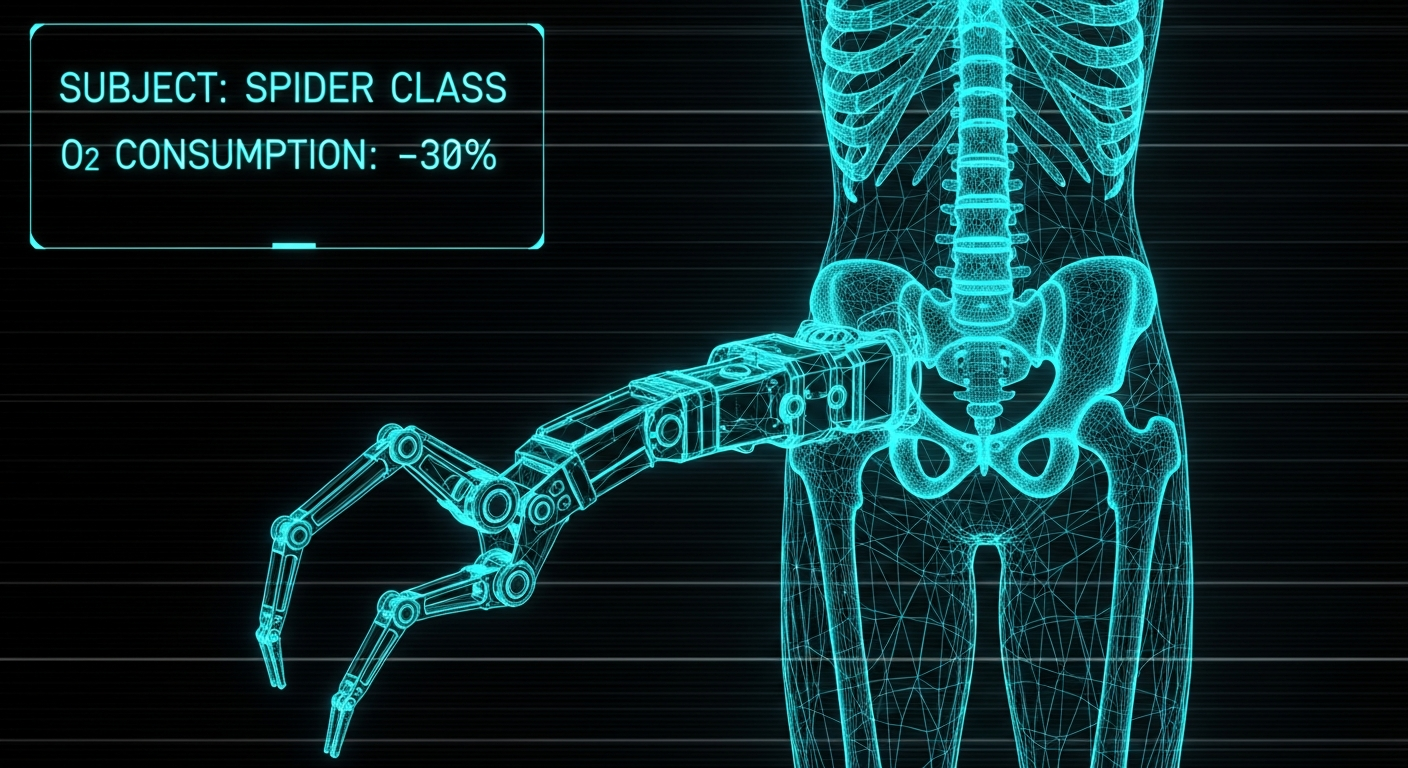
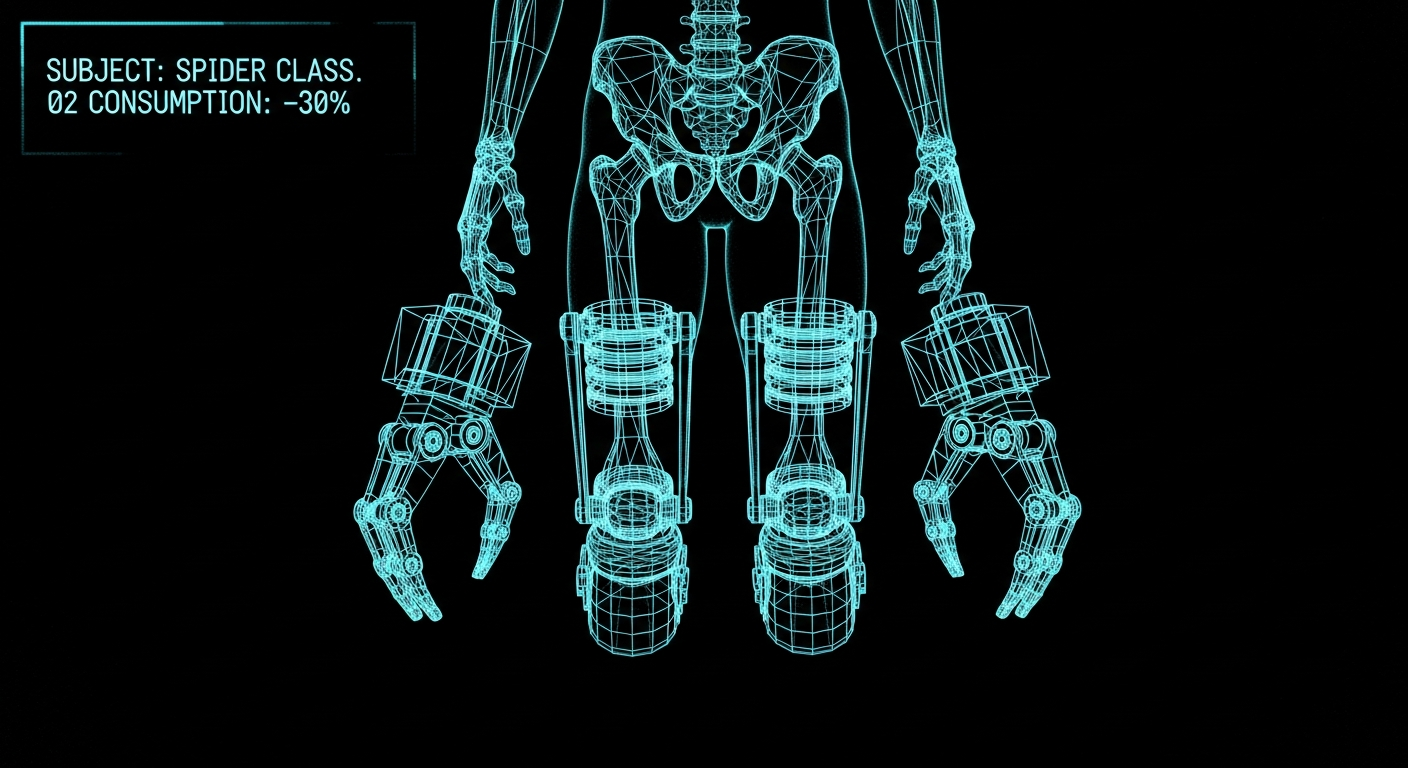
fixing spiders visual

diff --git a/content/lore/spiders.md b/content/lore/spiders.md
@@ -25,5 +25,5 @@ Spiders are the technicians, engineers, and pilots of the Belt. They live in the
 <!--
 TARGET: spiders-medical-scan
 NEVER display the prompt text to the reader.
-Image Prompt: Medical scan, cyan monochrome, wireframe schematic of a human skeleton with legs removed and mechanical grippers attached to the pelvis. HUD overlay text: "SUBJECT: SPIDER CLASS. O2 CONSUMPTION: -30%." Digital noise and scanlines.
+Image Prompt: Medical scan, cyan monochrome, wireframe schematic of a human skeleton with lower legs completely removed and mechanical grippers attached to the knee joints. The hands look normal. HUD overlay text: "SUBJECT: SPIDER CLASS. O2 CONSUMPTION: -30%." Digital noise and scanlines.
 -->
